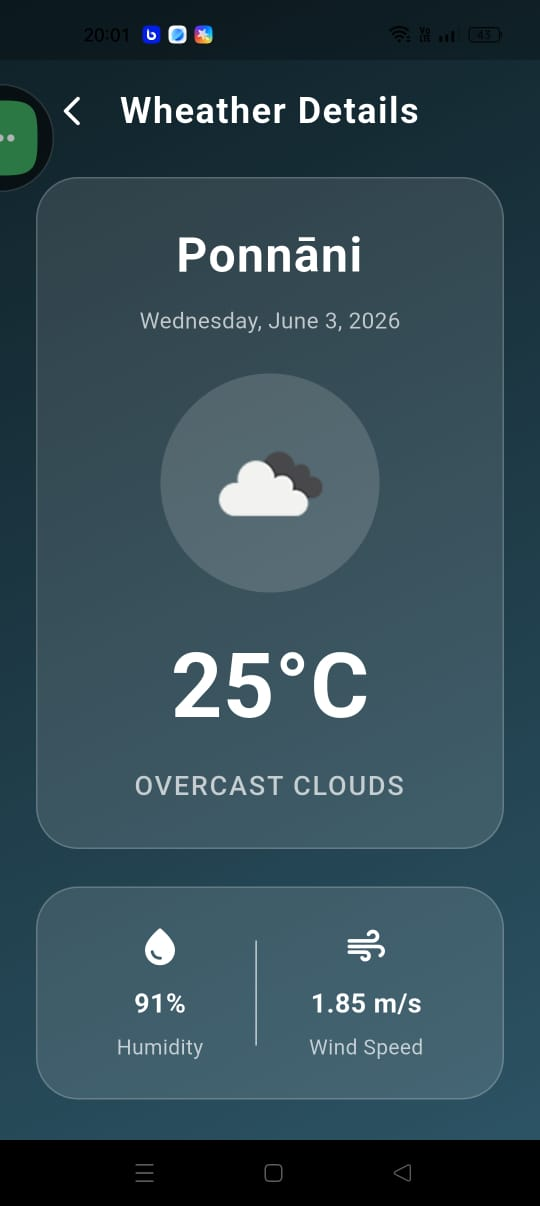
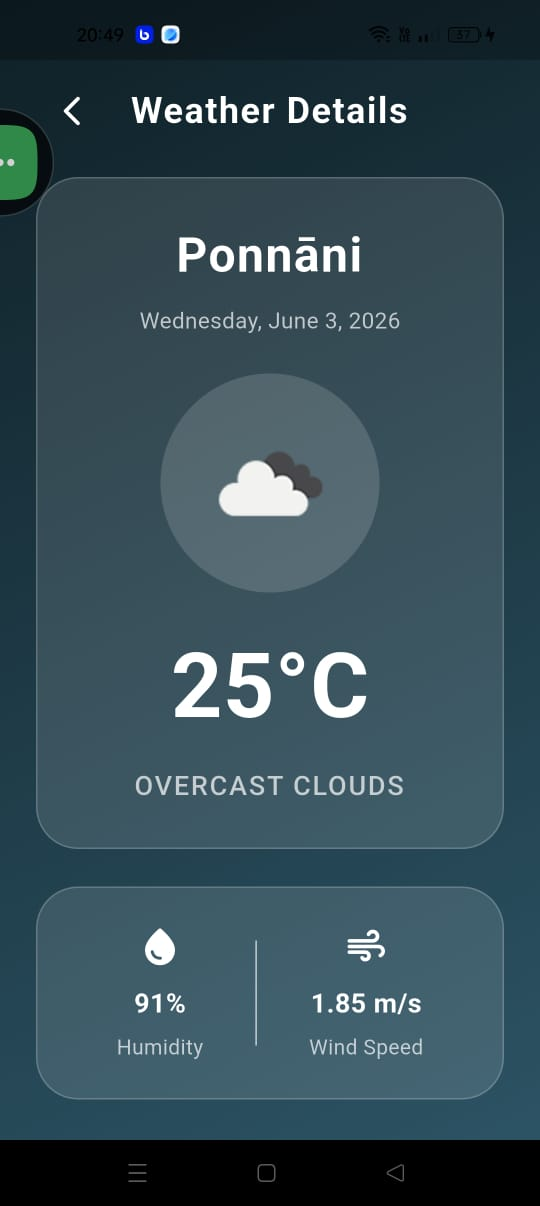
Update screenshots and README

diff --git a/README.md b/README.md
@@ -21,10 +21,10 @@ A Flutter-based weather application that provides real-time weather information 
 <table>
   <tr>
     <td><img src="assets/screenshots/1.png" width="250"></td>
-    <td><img src="assets/screenshots/2.png" width="250"></td>
+    <td><img src="assets/screenshots/2.jpeg" width="250"></td>
   </tr>
   <tr>
-    <td><img src="assets/screenshots/3.png" width="250"></td>
+    <td><img src="assets/screenshots/3.jpeg" width="250"></td>
     <td><img src="assets/screenshots/4.jpeg" width="250"></td>
   </tr>
 </table>
